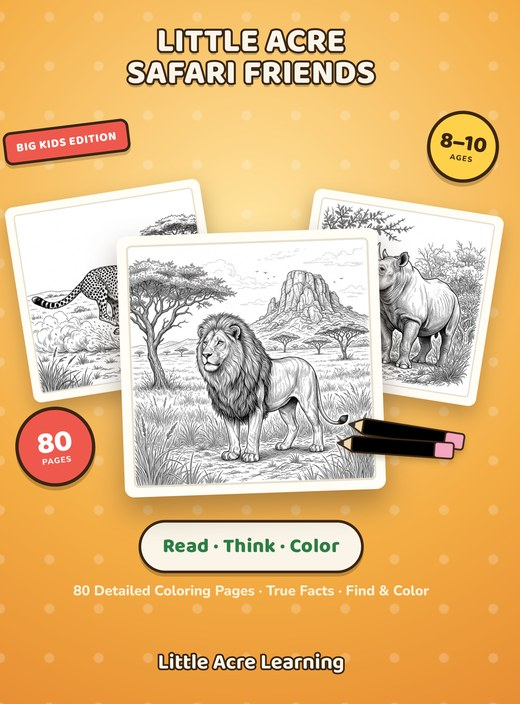
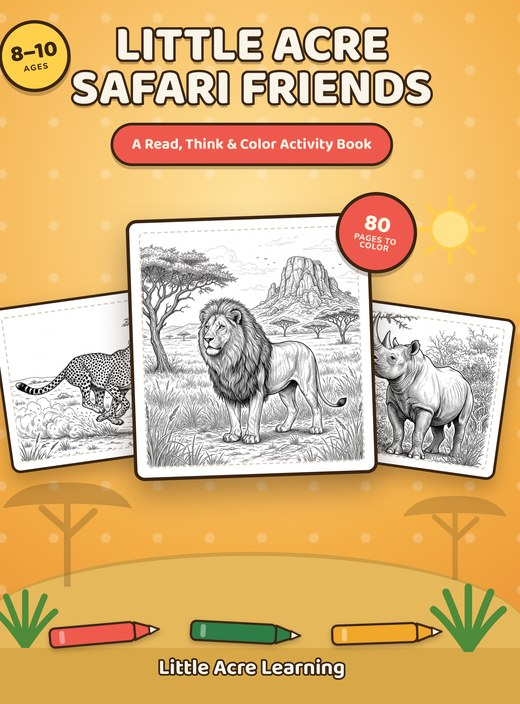
Safari Friends: wire free-pack links + corrected 8-10 cover
- Add freePackUrl (Lemon Squeezy) to all 3 Safari books from Josh's
  product-links sheet → enables the free sample-pack CTA and lists them
  on /printables.
- Replace the Safari 8-10 cover with the corrected on-style art (matches
  the 2-4/5-7 savanna design; old one was the off-style "Big Kids Edition").

diff --git a/content/books.ts b/content/books.ts
@@ -297,6 +297,8 @@ export const books: Book[] = [
     pages: 50,
     format: "Coloring book",
     amazonUrl: null,
+    freePackUrl:
+      "https://tynkrtoolsco.lemonsqueezy.com/checkout/buy/de1af5c6-bd5f-4d8a-86cb-2744c3a42a9c",
     coverImage: "/covers/safari-friends-2-4.jpg",
     gradient: SAFARI_GRADIENT,
     previewImages: previews("safari-friends-2-4", 10),
@@ -324,6 +326,8 @@ export const books: Book[] = [
     pages: 70,
     format: "Activity book",
     amazonUrl: null,
+    freePackUrl:
+      "https://tynkrtoolsco.lemonsqueezy.com/checkout/buy/2d54745e-fc85-4c1e-b0fd-93450bfa6e57",
     coverImage: "/covers/safari-friends-5-7.jpg",
     gradient: SAFARI_GRADIENT,
     previewImages: previews("safari-friends-5-7", 10),
@@ -351,6 +355,8 @@ export const books: Book[] = [
     pages: 80,
     format: "Coloring book",
     amazonUrl: null,
+    freePackUrl:
+      "https://tynkrtoolsco.lemonsqueezy.com/checkout/buy/26b8eb7d-24e0-41f6-884a-9958e610122a",
     coverImage: "/covers/safari-friends-8-10.jpg",
     gradient: SAFARI_GRADIENT,
     previewImages: previews("safari-friends-8-10", 10),

diff --git a/HANDOFF.md b/HANDOFF.md
@@ -28,7 +28,7 @@ Four series: **Farm Friends**, **Dino Friends** (NOT "Dinosaur Friends"), **Ocea
 
 - ✅ Live: Farm 5-7 `B0H5RMDKMR`, Farm 8-10 `B0H5TNJ4NG`, Dino 2-4 `B0H65VTNMG`, Dino 5-7 `B0H67G4XNJ`, Dino 8-10 `B0H66G7FB7`, Ocean 8-10 `B0H6CCP4PZ`
 - ⏳ Coming soon (no live Amazon link yet): **Farm 2-4, Ocean 2-4, Ocean 5-7, Safari 2-4, Safari 5-7, Safari 8-10**
-- **Free packs:** the 9 Farm/Dino/Ocean books each have a `freePackUrl` (Lemon Squeezy free product, store `tynkrtoolsco.lemonsqueezy.com`). The **3 Safari books have no `freePackUrl` yet** — Josh is generating the Lemon Squeezy links; wire them when provided (until then no free-pack link/`/printables` listing for Safari).
+- **Free packs:** all 12 books have a `freePackUrl` (Lemon Squeezy free product, store `tynkrtoolsco.lemonsqueezy.com`). Josh keeps the canonical link list in a "Lemon Squeezy Product links" spreadsheet (sheet "Little Acre Learning Previews").
 - **No hardcoded prices** — Amazon is the source of truth (`book.price` stays `null`; cards show "Available on Amazon →" or "Coming soon"). No cart/checkout on-site.
 
 ## 3. Stack, hosting, deploy
@@ -95,7 +95,6 @@ Hero (book arc) → "Find the right shelf" (3 age-band cards → `/books?age=`) 
 ## 10. Outstanding work
 
 - **6 Amazon links pending:** Farm 2-4, Ocean 2-4, Ocean 5-7, Safari 2-4, Safari 5-7, Safari 8-10 — wire each as it goes live (also clears the Book-schema `sameAs` TODOs).
-- **3 Safari free-pack (Lemon Squeezy) links pending:** Safari 2-4/5-7/8-10 have no `freePackUrl` yet (Josh is generating them). Add `freePackUrl` per book when provided → re-enables the "free sample pack" link + `/printables` listing for Safari.
 - **Plan B — per-series landing pages** (`/series/<slug>/`): one indexable page per series listing its 3 tiers, with `CollectionPage`+`ItemList` JSON-LD, `app/sitemap.ts` additions, and book→series back-links so they aren't orphaned. Series cards' `href` is the single swap point. A "shop the whole series on Amazon" CTA can use `SeriesMeta.amazonSeriesUrl` (Dino = `amazon.com/dp/B0H6C5GSF1`, stored, verify live first; Farm/Ocean series URLs TBD). Wants the Ocean line fully live on Amazon first.
 - **JSON-LD TODOs** (`lib/schema.ts`): Organization `sameAs: []` (need Amazon brand page + social profile URLs); ISBNs (none in repo).
 - **`/books` catalog is client-rendered** (`BooksBrowser`, `?age=`/`?series=` filters) → empty to non-JS crawlers. SEO improvement opportunity.